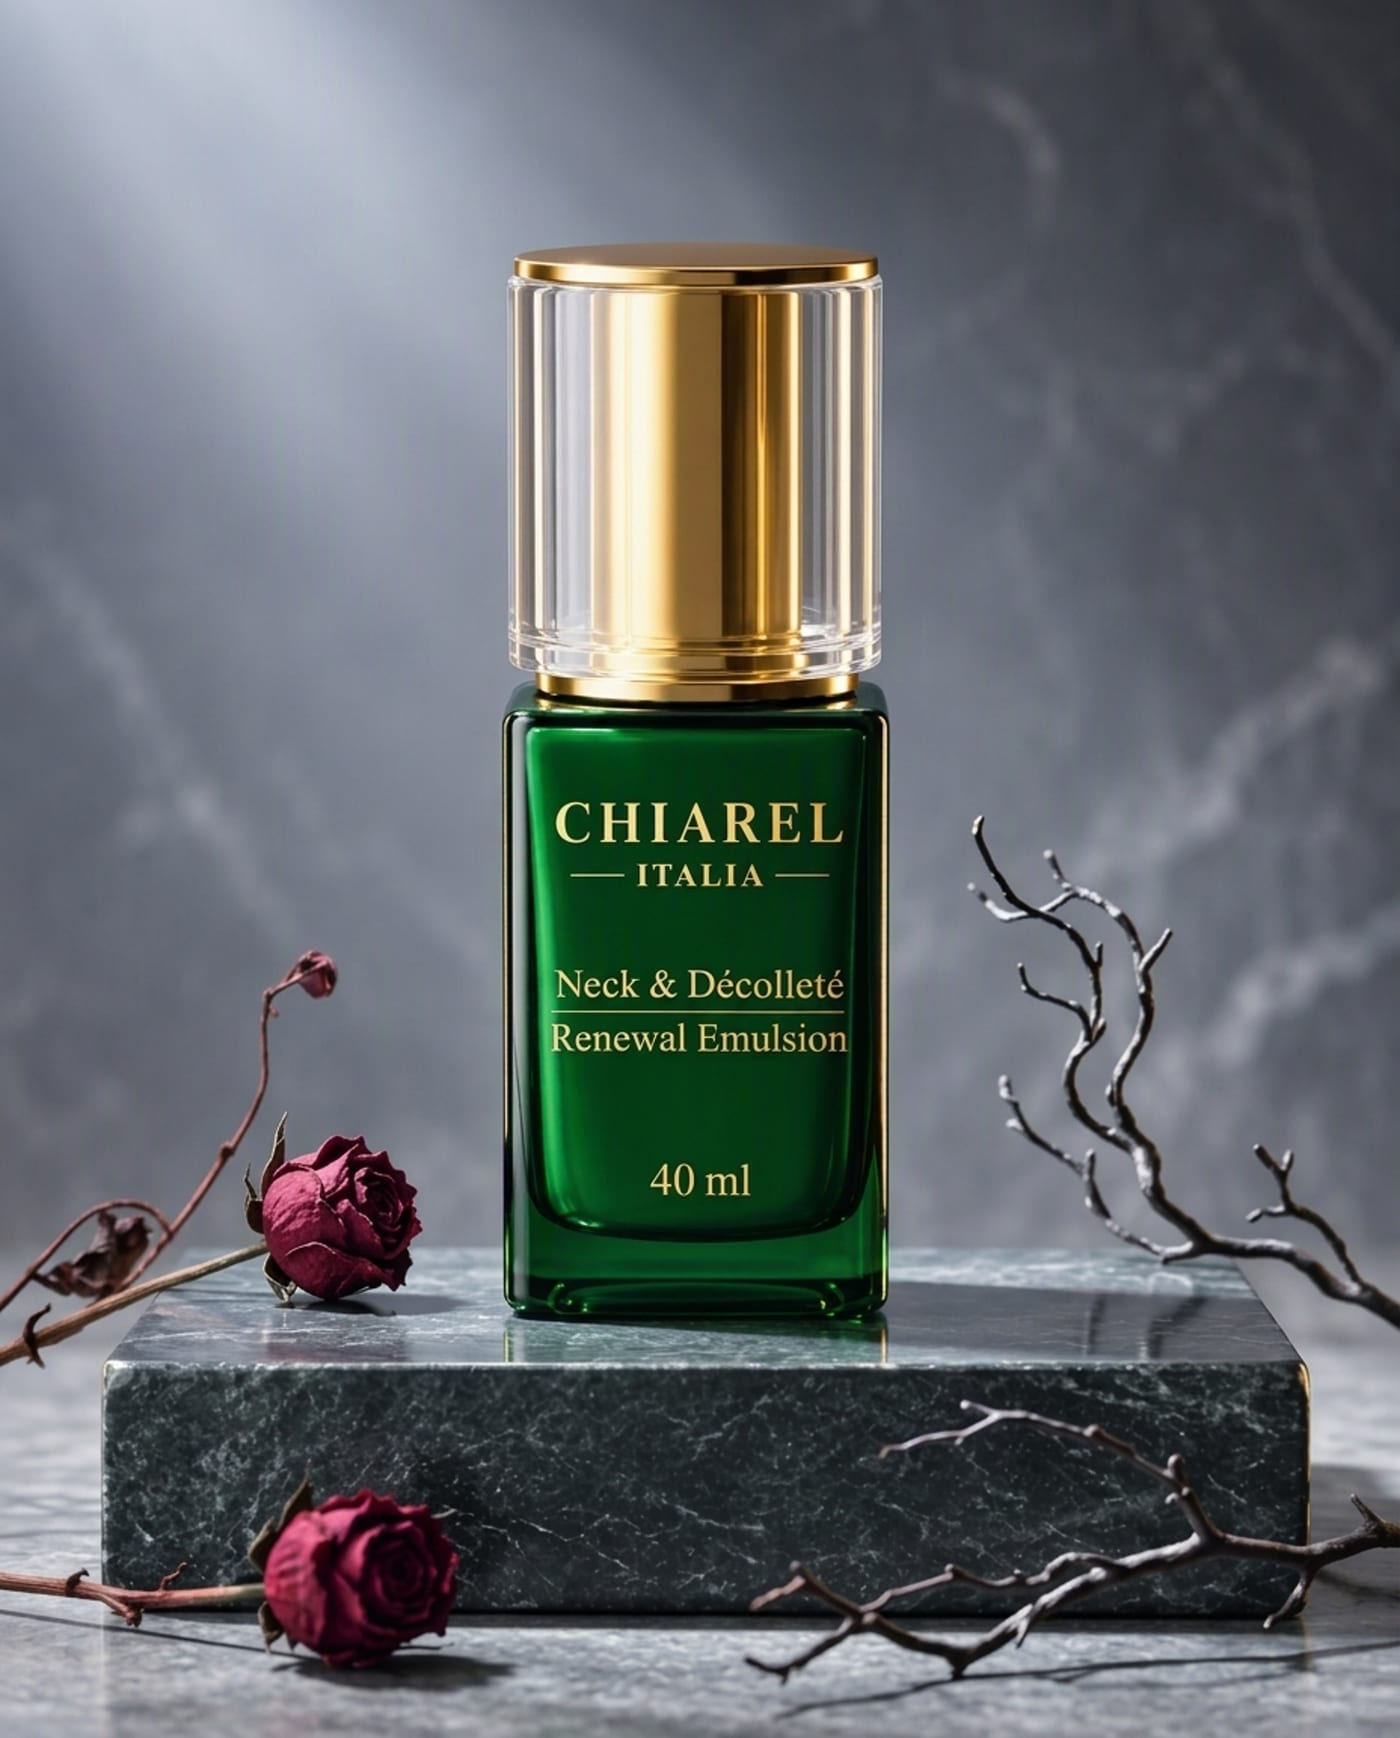
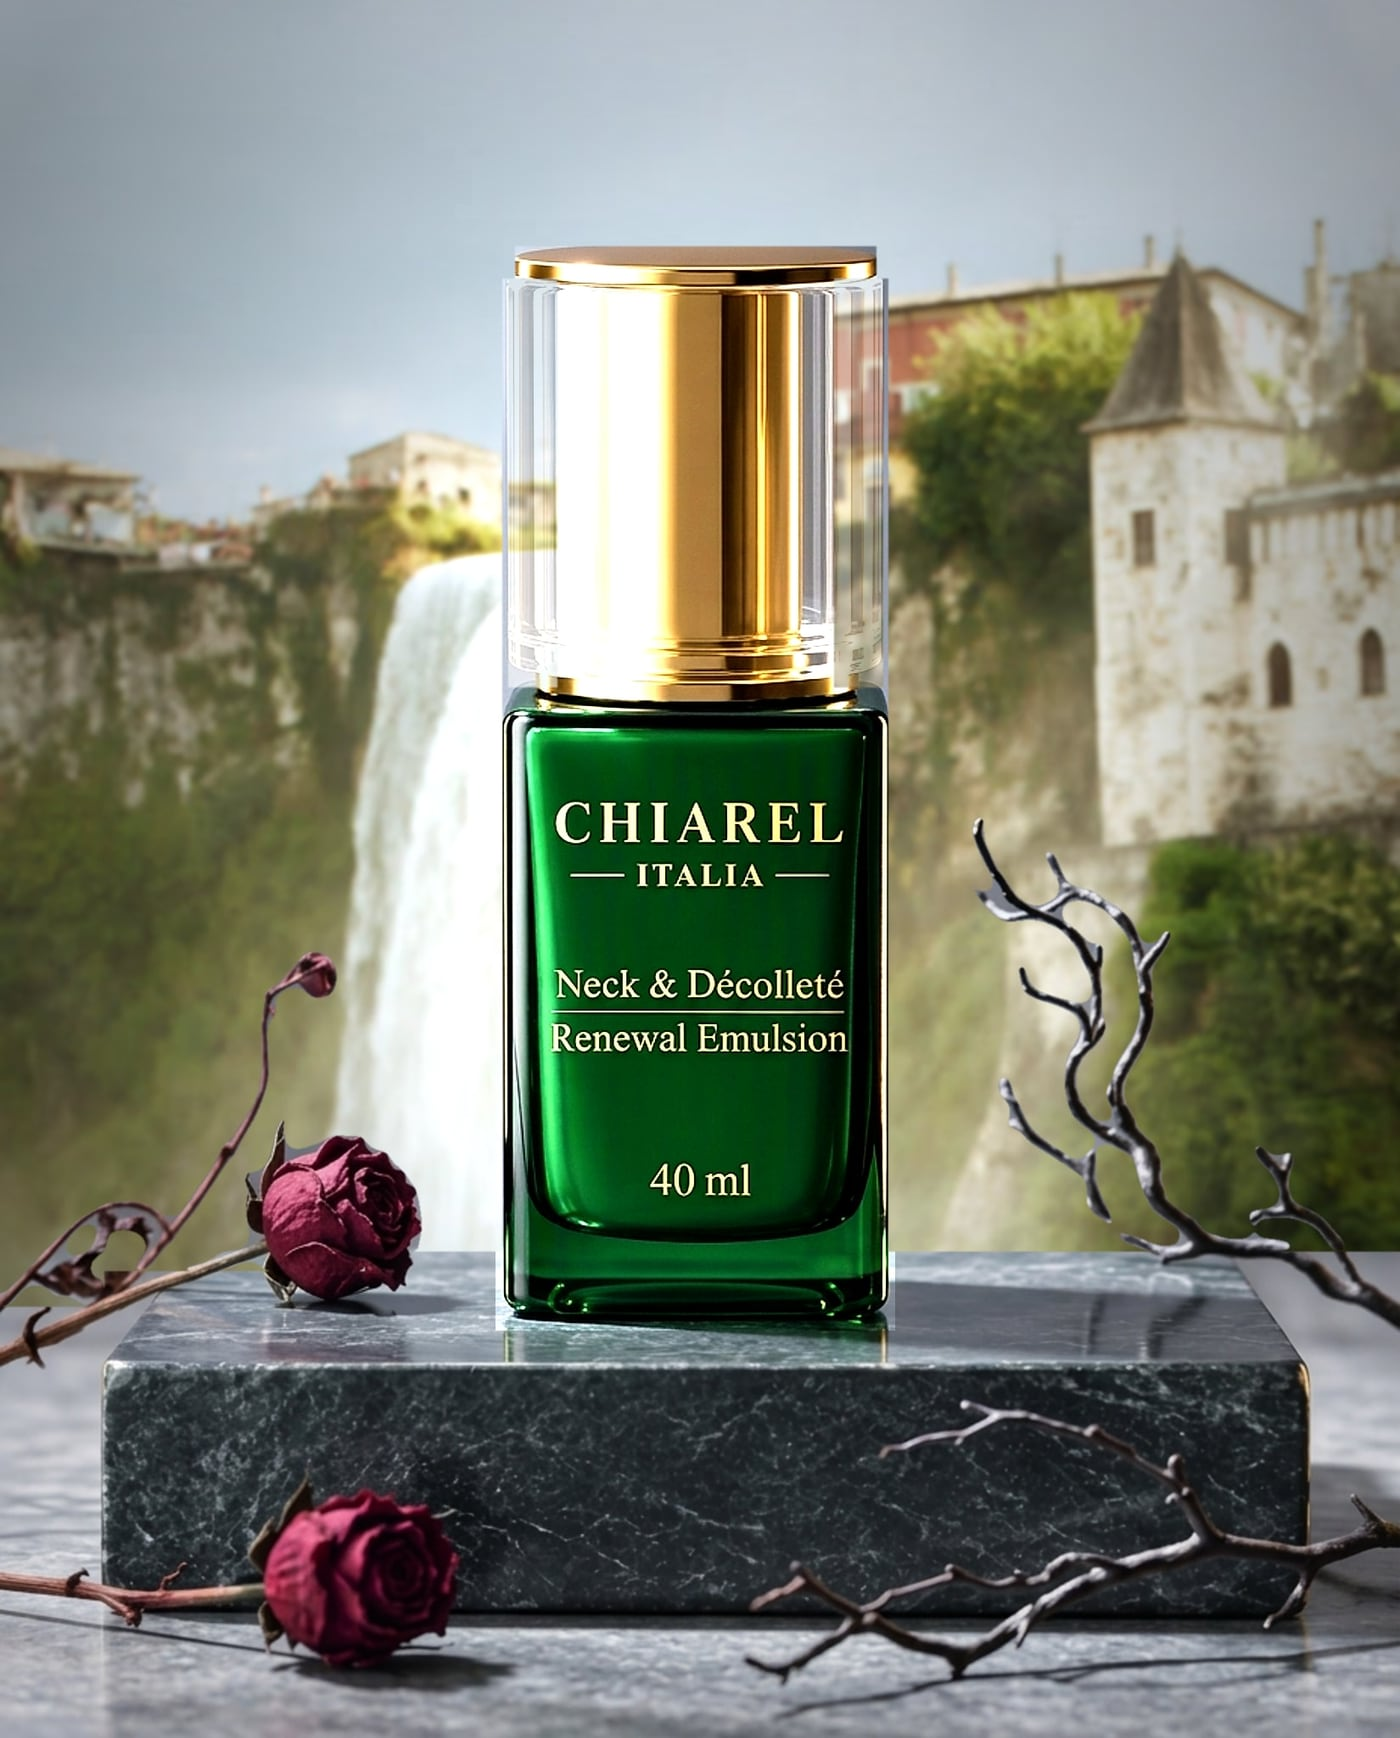
N1: falls composite replaces the marble image on the home feature and gallery

diff --git a/components/home/HomeN1Feature.tsx b/components/home/HomeN1Feature.tsx
@@ -21,7 +21,7 @@ export default function HomeN1Feature() {
     <section className="section-y border-y border-ink/10 bg-cloud/40">
       <div className="section-x grid items-center gap-10 md:grid-cols-[0.8fr_1.2fr] md:gap-16">
         <Reveal>
-          <div className="relative mx-auto aspect-[2/3] w-full max-w-sm overflow-hidden">
+          <div className="relative mx-auto aspect-[4/5] w-full max-w-sm overflow-hidden">
             <Image
               src="/assets/products/n1-neck-decollete-marble-roses.jpg"
               alt={productImageAlt(n1)}
